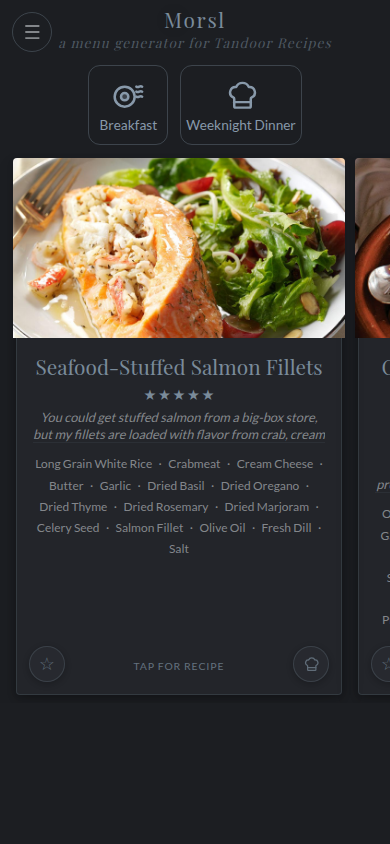
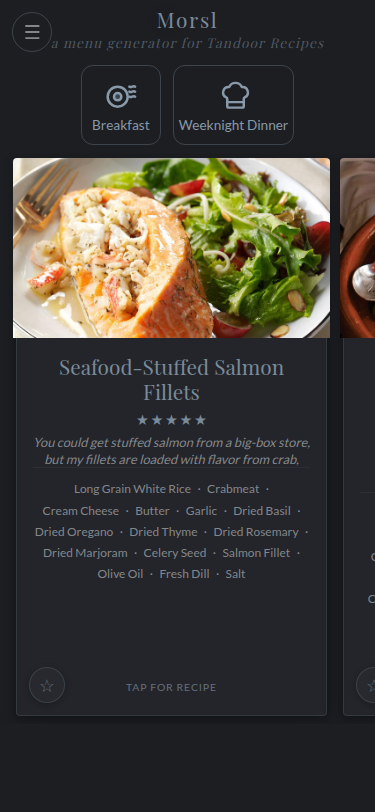
docs: refine README, retake screenshots, remove dev files
- Trim badges to CI + License + Release (remove codecov/GHCR)
- Remove buried badges from Contributing section
- Change test count to "200+ tests" (won't drift)
- Update setup screenshot caption
- Retake all screenshots with default settings (no FABs, no QR)
- Delete .dev-notes.md, TODO.md, dev-reset.sh (dev-only files)
- Add dev-only files to .gitignore
- Convert TODO incomplete items to GitHub issues #20-#24

diff --git a/README.md b/README.md
@@ -5,10 +5,8 @@
 Morsl connects to your [Tandoor Recipes](https://github.com/TandoorRecipes/recipes) instance, picks recipes based on your preferences (keywords, ratings, ingredients, cook history), and serves a menu your household can browse and order from. Selections sync back to Tandoor as meal plans.
 
 [![CI](https://github.com/FeatureCreep-dev/morsl/actions/workflows/ci.yml/badge.svg)](https://github.com/FeatureCreep-dev/morsl/actions/workflows/ci.yml)
-[![codecov](https://codecov.io/gh/FeatureCreep-dev/morsl/graph/badge.svg)](https://codecov.io/gh/FeatureCreep-dev/morsl)
-[![Release](https://img.shields.io/github/v/release/FeatureCreep-dev/morsl)](https://github.com/FeatureCreep-dev/morsl/releases)
 [![License: MIT](https://img.shields.io/github/license/FeatureCreep-dev/morsl)](LICENSE)
-[![GHCR](https://img.shields.io/badge/ghcr.io-morsl-blue?logo=docker)](https://github.com/FeatureCreep-dev/morsl/pkgs/container/morsl)
+[![Release](https://img.shields.io/github/v/release/FeatureCreep-dev/morsl)](https://github.com/FeatureCreep-dev/morsl/releases)
 
 ---
 
@@ -52,7 +50,7 @@ docker compose up -d
 
 Open `http://your-server:8321`. The setup wizard walks you through connecting to Tandoor if you skip the environment variables.
 
-![Setup wizard — connects to your Tandoor instance in minutes](docs/screenshot-setup.png)
+![Setup wizard — guided configuration with profile presets](docs/screenshot-setup.png)
 
 The `data` volume keeps your profiles, schedules, branding, and settings safe across updates.
 
@@ -154,7 +152,7 @@ pip install -e ".[dev]"
 pytest
 ```
 
-216 tests covering the solver, services, API routes, models, and utilities. Integration tests requiring a live Tandoor instance are marked `@pytest.mark.integration` and skipped by default.
+200+ tests covering the solver, services, API routes, models, and utilities. Integration tests requiring a live Tandoor instance are marked `@pytest.mark.integration` and skipped by default.
 
 ### Tech stack
 
@@ -187,15 +185,10 @@ morsl/                         # Python package
 │       └── routes/            # API endpoints
 └── services/                  # Business logic layer
 web/                           # Frontend (vanilla JS, Alpine.js)
-tests/                         # 216 tests
+tests/                         # 200+ tests
 Dockerfile
 docker-compose.yml
 ```
-
-[![OpenSSF Scorecard](https://api.scorecard.dev/projects/github.com/FeatureCreep-dev/morsl/badge)](https://scorecard.dev/viewer/?uri=github.com/FeatureCreep-dev/morsl)
-[![Python](https://img.shields.io/python/required-version-toml?tomlFilePath=https%3A%2F%2Fraw.githubusercontent.com%2FFeatureCreep-dev%2Fmorsl%2Fmain%2Fpyproject.toml)](https://www.python.org/downloads/)
-[![Ruff](https://img.shields.io/endpoint?url=https://raw.githubusercontent.com/astral-sh/ruff/main/assets/badge/v2.json)](https://github.com/astral-sh/ruff)
-[![Sponsor](https://img.shields.io/badge/sponsor-FeatureCreep-ea4aaa?logo=github-sponsors)](https://github.com/sponsors/FeatureCreep-dev)
 
 </details>
 
